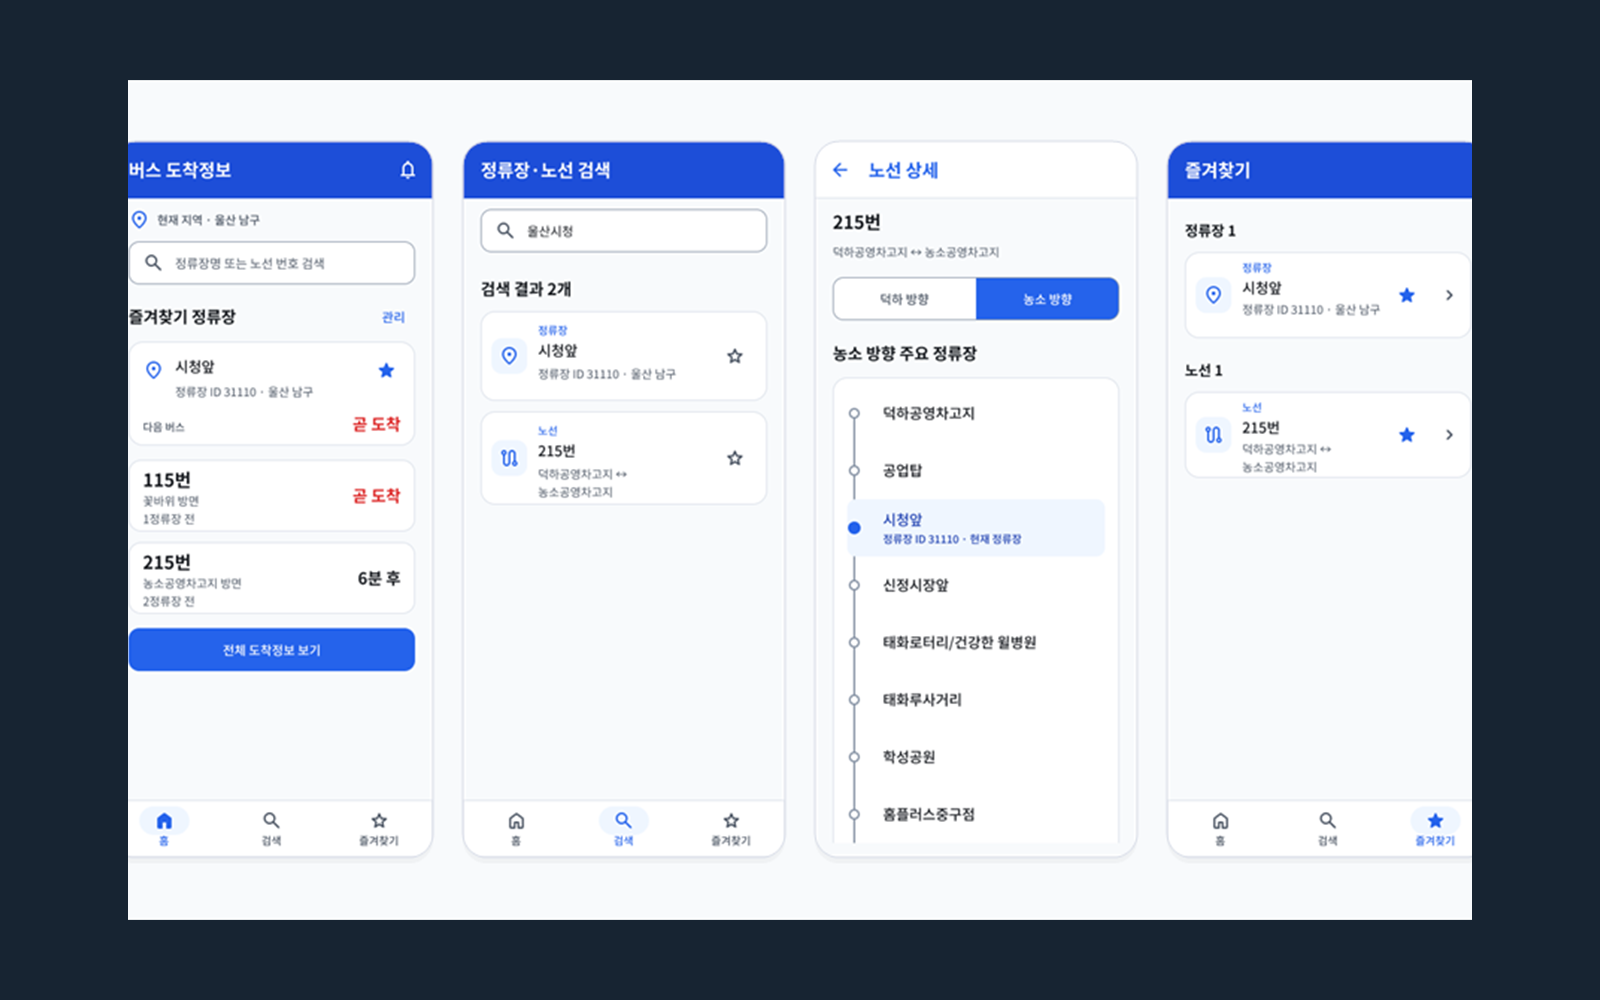
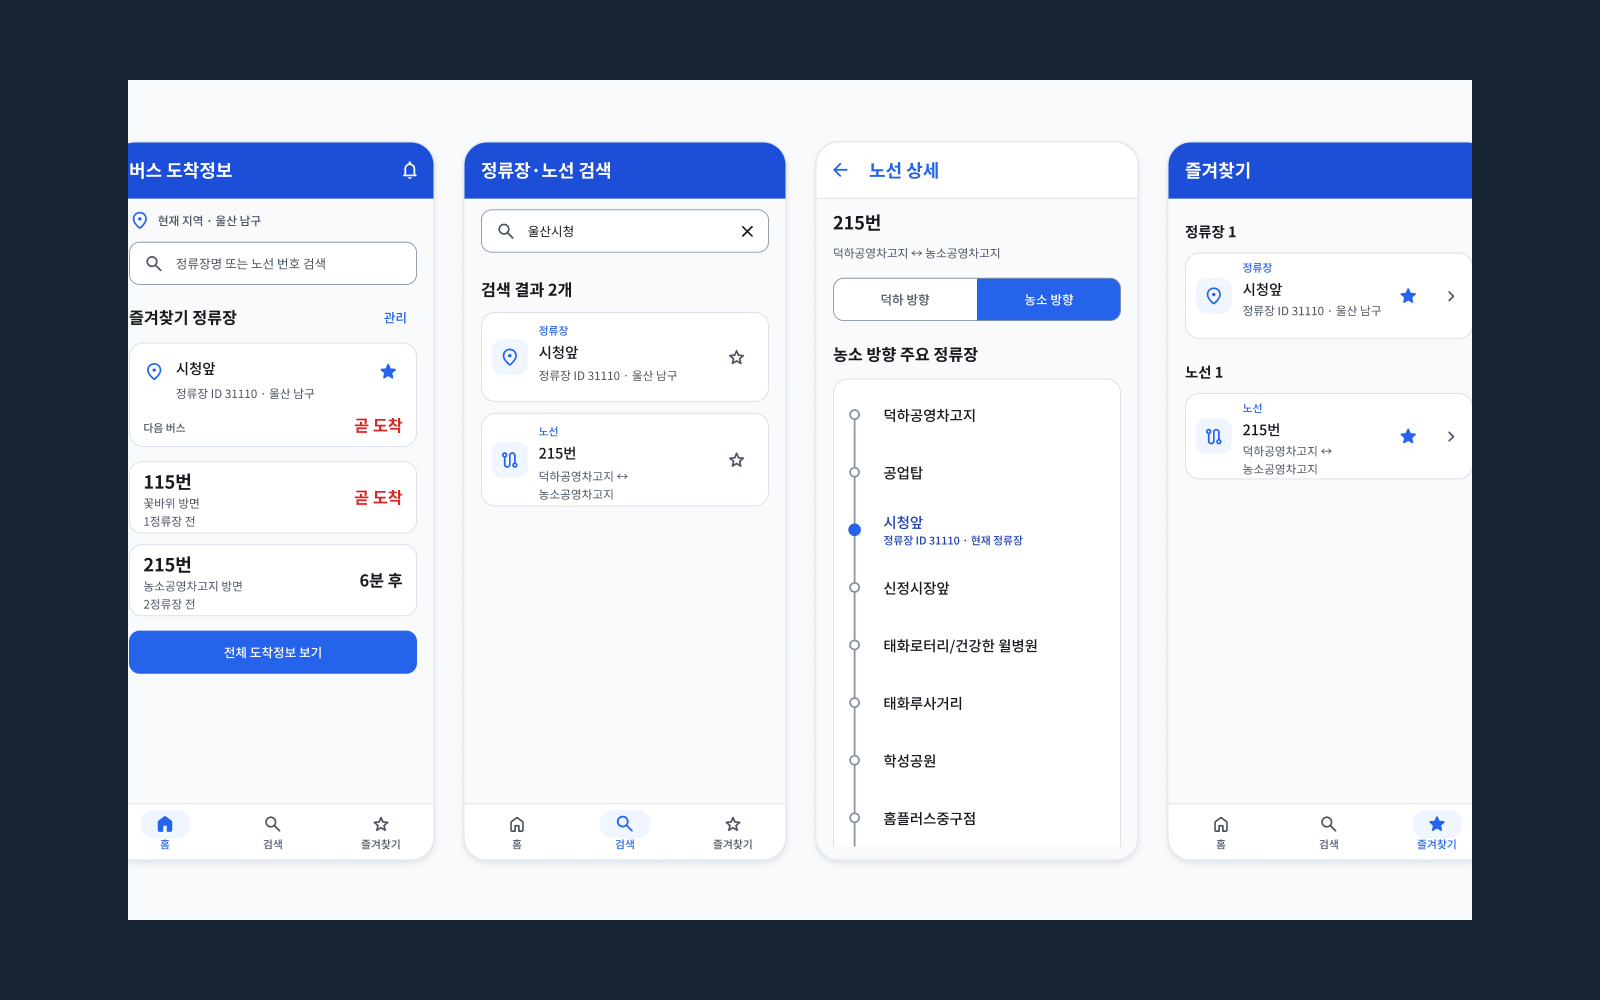
feat(portfolio): finalize Ulsan bus case study

diff --git a/projects/my-portfolio/src/data/projectsFallbackData.js b/projects/my-portfolio/src/data/projectsFallbackData.js
@@ -206,11 +206,11 @@ export const fallbackProjects = [
     category: 'Figma UX/UI',
     categories: ['more-work', 'figma'],
     categoryLabel: 'Mobile UX/UI Case Study',
-    role: '정보 구조 · 모바일 UI · 컴포넌트 · Figma 프로토타입 · 접근성 QA',
+    role: '모바일 정보 구조 · 상태 설계 · Figma 프로토타입 · 접근성 QA',
     tools: ['Figma', 'Auto Layout', 'Prototype'],
     moreWorksTools: ['Figma', 'Prototype'],
     tech_stack: ['Figma', 'Auto Layout', 'Components', 'Variants', 'Variables', 'Prototype'],
-    tags: ['Mobile UX/UI', 'Information Architecture', 'Component System', 'Prototype'],
+    tags: ['Mobile UX/UI', 'Information Architecture', 'State Design', 'Prototype'],
     gradient: 'linear-gradient(135deg, #0F1E33 0%, #1E3A5F 55%, #2563EB 100%)',
     thumbnail_url: null,
     thumbnailUrl: null,
@@ -229,20 +229,20 @@ export const fallbackProjects = [
     moreWorksStatus: 'STATIC',
     sort_order: 5,
     status: 'complete',
-    overview: '교육 과정의 제한 시간 과제로 시작한 화면을 바탕으로, 불필요한 기능을 덜어내고 정보 구조·상태·컴포넌트·접근성과 Prototype 흐름을 개인 포트폴리오용으로 다시 정리한 모바일 UI 작품입니다.',
+    overview: '이동 중 짧은 시간 안에 다음 버스를 판단하도록, 도착 정보의 우선순위와 검색·상세·복구 상태를 정리하고 컴포넌트와 접근성 기준을 연결한 모바일 Figma Prototype입니다.',
     problem: '이동 중에는 정류장·노선·도착 정보를 짧은 시간 안에 구분해야 하지만, 정보가 같은 무게로 반복되면 다음 버스를 빠르게 판단하기 어렵습니다.',
     goal: '즐겨찾기 정류장의 다음 버스를 Home에 우선 배치하고, Search → Station Detail → Route Detail과 빈 상태·오류 복구 흐름을 자연스럽게 연결하는 것이 목표였습니다.',
     targetUser: '울산 지역에서 버스 도착 정보를 빠르게 확인하려는 통근·통학 사용자(가정)',
     designPoint: '상위 화면과 상세 화면의 계층을 분리하고, 방향별 주요 정류장을 Timeline으로 구성했습니다. Recent Empty·No Result·Loading·Error를 서로 다른 상태로 정의하고, 의미 기반 색상·타입·컴포넌트와 48px 조작 영역을 정리했습니다.',
-    process: '교육 과정 제한 시간 과제 → 기존 화면 감사 → 근거가 약한 기능 제거 → 정보 구조·컴포넌트·접근성·Prototype 리파인 → 정적 데이터·라이선스 검토',
-    result: '제품·흐름 화면 8개와 로딩·오류 상태 화면 2개, 최종 화면 10개와 Figma 프로토타입·QA 문서를 정리했습니다.',
+    process: '교육 과정의 제한 시간 과제 → 기존 화면 감사 → 근거가 약한 기능 제거 → 정보 구조·상태·컴포넌트·접근성·Prototype 리파인 → 정적 데이터·라이선스 검토',
+    result: '핵심 흐름 화면 8개와 Loading·Error 상태 2개, 최종 10개 화면과 Figma Prototype·QA 문서를 정리했습니다.',
     lesson: '화면 수나 기능을 늘리는 것보다, 정보의 우선순위와 화면 역할을 분리하고 실제 범위를 정직하게 설명하는 것이 완성도에 더 중요하다는 점을 배웠습니다.',
     nextStep: '실제 서비스로 확장할 경우 울산 BIS API 연동, 알림 권한 흐름 구현, 실제 사용자 기반 사용성 검증이 필요합니다.',
     limitation: '실행 앱이 아닌 360px Figma Prototype입니다. 실제 API·실시간 위치·Push·계정·코드 구현과 사용자 조사·사용성 테스트는 포함하지 않았습니다.',
-    dataUsage: '정류장명·노선 종점·주요 정류장 순서는 울산광역시 BIS 공개정보를 2026.07.28 기준으로 재검토했습니다. 도착 분·남은 정류장 수·저상 여부와 화면의 수치는 흐름 시연을 위한 정적 예시값입니다.',
-    aiContribution: '화면 감사, 카피, 최신 기준과 접근성·QA 검토, Figma 편집 보조에 AI를 활용했으며, 최종 정보 구조·디자인 선택·공개 범위는 직접 판단했습니다.',
+    dataUsage: '울산광역시 BIS 정보에서 노선 ID·정류장 순번·정류장 ID·정류장명을 확인하고, 울산교통관리센터 노선검색에서 방향과 주요 정류장 순서를 2026-08-14 재확인했습니다. 화면 예시 데이터 기준일은 2026-07-28이며, 도착 예정시간·남은 정류장 수·저상버스 상태는 UX 흐름 시연용 정적 예시값입니다. 런타임 API는 호출하지 않습니다.',
+    aiContribution: '화면 감사, 카피, 공식 자료·접근성·QA 검토와 Figma 편집 보조에 AI를 활용했으며, 최종 정보 구조·디자인 선택·공개 범위는 직접 판단했습니다.',
     cardProblem: '이동 중 정류장·노선·도착 정보를 짧은 시간 안에 구분하기 어려운 문제를 정보 우선순위 관점에서 정리했습니다.',
-    cardRole: ['반복 조회 정보와 모바일 탐색 흐름 설계', '컴포넌트·상태·Prototype·접근성 QA 정리'],
+    cardRole: ['이동 중 반복 조회 정보의 우선순위와 모바일 탐색 흐름 설계', 'Empty·No Result·Loading·Error 상태와 복구·접근성 QA 정리'],
     cardScope: '최종 화면 10개 · 정적 예시 데이터 · Figma 프로토타입',
     cardLimit: '정적 예시 데이터이며 실제 버스 API·실시간 위치·Push·계정·코드 구현과 사용성 검증은 포함하지 않았습니다.',
     accentColor: '#2563EB',

diff --git a/projects/my-portfolio/src/data/portfolioMeta.js b/projects/my-portfolio/src/data/portfolioMeta.js
@@ -820,7 +820,7 @@ export const PROJECT_DETAIL_READY = {
   'bus-arrival': {
     responsiveNotApplicable: true,
     hero: {
-      summary: '교육 과정 제한 시간 과제로 시작한 화면을 바탕으로, 이동 중 도착 정보를 빠르게 확인하도록 정보 구조·상태·컴포넌트와 Prototype을 다시 정리한 모바일 UI입니다.',
+      summary: '이동 중 짧은 시간 안에 다음 버스를 판단하도록, 도착 정보의 우선순위와 검색·상세·복구 상태를 정리한 모바일 Figma Prototype입니다.',
       media: [
         { src: 'thumbnails/bus-arrival-ui-thumbnail.png', alt: '울산 버스 도착정보 Figma Prototype · final screen composite · static sample', objectFit: 'contain' },
       ],
@@ -845,9 +845,9 @@ export const PROJECT_DETAIL_READY = {
       },
       {
         title: '검색의 기본·결과·결과 없음 상태를 분리했습니다.',
-        choice: 'Recent Empty · Search Result · No Result를 독립 상태로 구성',
+        choice: 'Recent Empty · Search Results · No Result를 독립 상태로 구성',
         reason: '입력 전 상태와 검색 실패를 같은 빈 화면으로 오해하지 않게 하기 위해',
-        verification: '최종 Figma Search와 상태 Prototype 연결 확인',
+        verification: 'Recent Empty → Search Results, Clear/다시 검색 → Recent Empty 전환 확인',
         media: { src: 'detail/bus-arrival-02-search.png', alt: '울산 버스 도착정보 Figma Prototype · Search · static sample', aspectRatio: '3 / 2' },
       },
       {
@@ -868,19 +868,19 @@ export const PROJECT_DETAIL_READY = {
     // Search는 Decision 02 증거로만 쓰고 Main Screens에는 다시 넣지 않는다.
     mainScreens: [
       { label: 'Home', media: { src: 'detail/bus-arrival-01-home.png', alt: '울산 버스 도착정보 Figma Prototype · Home · static sample', aspectRatio: '3 / 2' } },
-      { label: 'Route Detail', media: { src: 'detail/bus-arrival-04-route-detail.png', alt: '울산 버스 도착정보 Figma Prototype · Route Detail · static sample', aspectRatio: '3 / 2' } },
       { label: 'Station Detail', media: { src: 'detail/bus-arrival-03-station-detail.png', alt: '울산 버스 도착정보 Figma Prototype · Station Detail · static sample', aspectRatio: '3 / 2' } },
+      { label: 'Route Detail', media: { src: 'detail/bus-arrival-04-route-detail.png', alt: '울산 버스 도착정보 Figma Prototype · Route Detail · static sample', aspectRatio: '3 / 2' } },
     ],
     scope: {
       actual: [
-        'Figma 정보 구조·모바일 UI·컴포넌트·Prototype 설계',
+        'Figma 모바일 정보 구조·상태·Prototype 설계',
         '최종 화면 10개와 상태·접근성 QA',
-        '울산 BIS 공개정보 재검토 · 2026.07.28',
+        '화면 예시 데이터 2026-07-28 · 공식 자료 재확인 2026-08-14',
       ],
       demoStatic: [
         '정적 예시 정류장·노선·도착 정보',
         '도착 분·남은 정류장 수·저상 여부는 시연값',
-        'AI는 화면 감사·카피·접근성 QA·Figma 편집 보조에 활용',
+        'AI는 화면 감사·카피·공식 자료·접근성 QA·Figma 편집 보조에 활용',
       ],
       notIncluded: [
         '실시간 버스 API·차량 위치·운행 변경',
@@ -889,7 +889,7 @@ export const PROJECT_DETAIL_READY = {
       ],
     },
     resultLimit: {
-      done: '교육 과정 과제에서 출발한 화면을 최종 화면 10개, 의미 기반 컴포넌트와 상태, 방향별 노선 타임라인, 접근성 QA와 프로토타입 흐름으로 리파인했습니다.',
+      done: '도착 정보의 우선순위와 검색·정류장 상세·노선 상세 흐름, 빈 상태·결과 없음·로딩·오류 복구 상태를 최종 10개 화면과 QA 문서로 정리했습니다.',
       limit: '실행 앱이 아닌 360px Figma Prototype입니다. 실제 API·실시간 위치·Push·계정·코드 구현과 사용자 조사·사용성 검증은 포함하지 않았습니다.',
     },
   },
